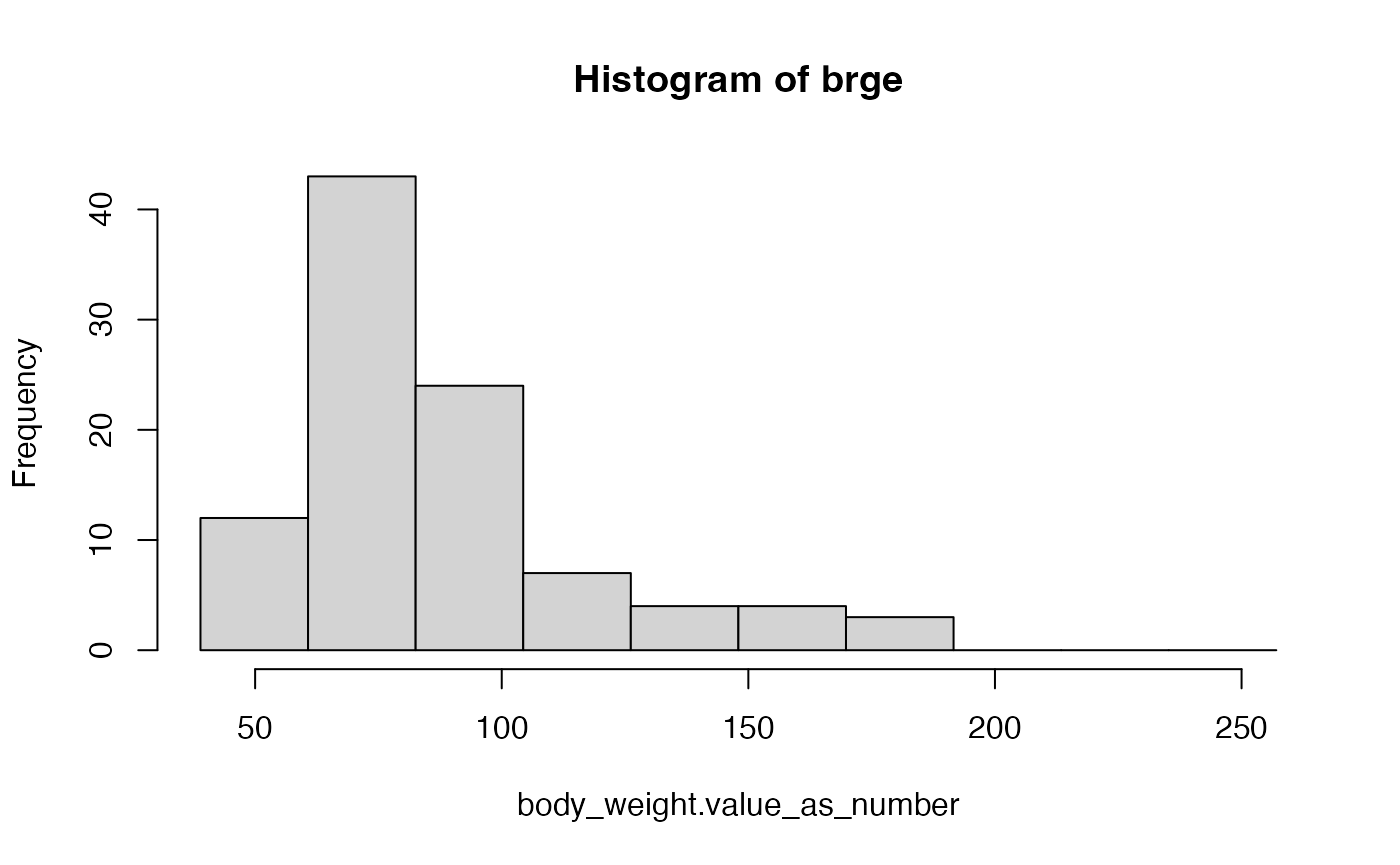
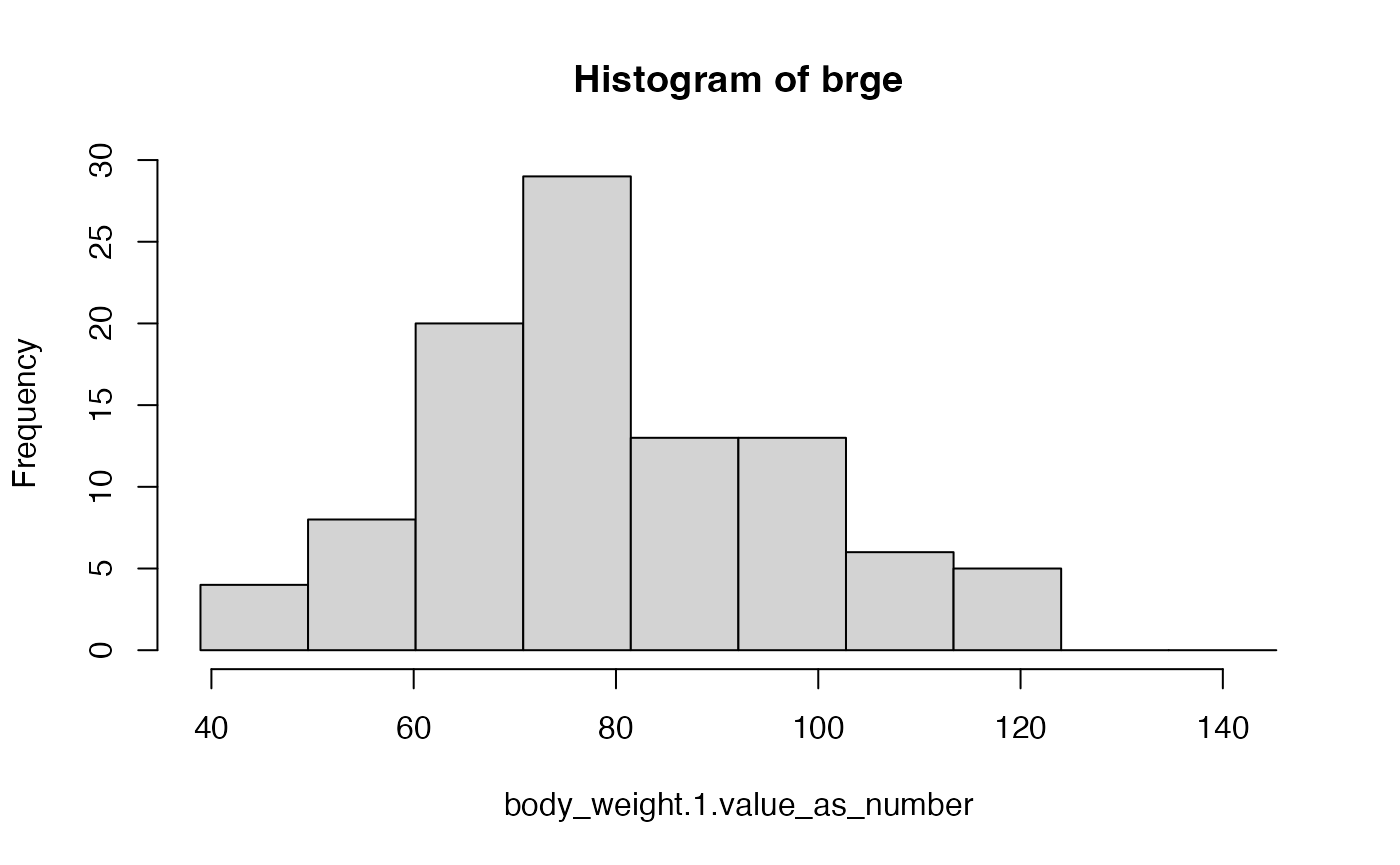
docs: longitudinal sequencing

diff --git a/docs/articles/demo.html b/docs/articles/demo.html
@@ -177,15 +177,15 @@ in the database:</p>
 <pre><code><span><span class="co">## $brge</span></span>
 <span><span class="co">##  [1] "attribute_definition" "care_site"            "cdm_source"          </span></span>
 <span><span class="co">##  [4] "cohort"               "cohort_attribute"     "cohort_definition"   </span></span>
-<span><span class="co">##  [7] "concept_relationship" "condition_era"        "condition_occurrence"</span></span>
-<span><span class="co">## [10] "cost"                 "death"                "device_exposure"     </span></span>
-<span><span class="co">## [13] "dose_era"             "drug_era"             "drug_exposure"       </span></span>
-<span><span class="co">## [16] "fact_relationship"    "location"             "measurement"         </span></span>
-<span><span class="co">## [19] "metadata"             "note"                 "note_nlp"            </span></span>
-<span><span class="co">## [22] "observation"          "observation_period"   "payer_plan_period"   </span></span>
-<span><span class="co">## [25] "person"               "procedure_occurrence" "provider"            </span></span>
-<span><span class="co">## [28] "specimen"             "visit_detail"         "visit_occurrence"    </span></span>
-<span><span class="co">## [31] "vocabulary"           "concept"</span></span></code></pre>
+<span><span class="co">##  [7] "concept"              "concept_relationship" "condition_era"       </span></span>
+<span><span class="co">## [10] "condition_occurrence" "cost"                 "death"               </span></span>
+<span><span class="co">## [13] "device_exposure"      "dose_era"             "drug_era"            </span></span>
+<span><span class="co">## [16] "drug_exposure"        "fact_relationship"    "location"            </span></span>
+<span><span class="co">## [19] "measurement"          "metadata"             "note"                </span></span>
+<span><span class="co">## [22] "note_nlp"             "observation"          "observation_period"  </span></span>
+<span><span class="co">## [25] "payer_plan_period"    "person"               "procedure_occurrence"</span></span>
+<span><span class="co">## [28] "provider"             "specimen"             "visit_detail"        </span></span>
+<span><span class="co">## [31] "visit_occurrence"     "vocabulary"</span></span></code></pre>
 </div>
 <div class="section level3">
 <h3 id="concepts">Concepts<a class="anchor" aria-label="anchor" href="#concepts"></a>
@@ -316,6 +316,12 @@ variables of interest.</p>
 data extraction functions of <code>dsOMOPHelper</code> in conjunction
 with DataSHIELD’s environment functions to manipulate and analyze the
 data.</p>
+<p><code>dsOMOP</code> sequences the longitudinal data in different
+columns if it detects several occurrences of a certain type of variable
+associated with the same <code>person_id</code>. We will not be doing
+any aggregation of the data for this example, but instead, we will be
+working with the first occurrence of each kind of variable. This is why
+we will be using the suffix <code>.1</code> in the variable names.</p>
 <p>Let’s say we want to add the observation
 <code>Marital status [NHANES]</code> to our study table. To do this, we
 first need to identify the corresponding concept, which in this case is
@@ -329,7 +335,7 @@ from the <code>value_as_concept_id</code> column.</p>
 <span>       concepts <span class="op">=</span> <span class="fu"><a href="https://rdrr.io/r/base/c.html" class="external-link">c</a></span><span class="op">(</span><span class="fl">40766231</span><span class="op">)</span>,</span>
 <span>       columns <span class="op">=</span> <span class="fu"><a href="https://rdrr.io/r/base/c.html" class="external-link">c</a></span><span class="op">(</span><span class="st">"value_as_concept_id"</span><span class="op">)</span><span class="op">)</span></span>
 <span></span>
-<span><span class="fu"><a href="https://rdrr.io/pkg/dsBaseClient/man/ds.summary.html" class="external-link">ds.summary</a></span><span class="op">(</span><span class="st">"mimiciv$marital_status_nhanes.value_as_concept_id"</span><span class="op">)</span></span></code></pre></div>
+<span><span class="fu"><a href="https://rdrr.io/pkg/dsBaseClient/man/ds.summary.html" class="external-link">ds.summary</a></span><span class="op">(</span><span class="st">"mimiciv$marital_status_nhanes.1.value_as_concept_id"</span><span class="op">)</span></span></code></pre></div>
 <pre><code><span><span class="co">## $brge</span></span>
 <span><span class="co">## $brge$class</span></span>
 <span><span class="co">## [1] "factor"</span></span>
@@ -360,46 +366,46 @@ with the following categories: <code>divorced</code>,
 <code>dsBaseClient</code> to obtain a frequency table of that same
 variable:</p>
 <div class="sourceCode" id="cb15"><pre class="downlit sourceCode r">
-<code class="sourceCode R"><span><span class="fu"><a href="https://rdrr.io/pkg/dsBaseClient/man/ds.table.html" class="external-link">ds.table</a></span><span class="op">(</span><span class="st">"mimiciv$marital_status_nhanes.value_as_concept_id"</span><span class="op">)</span></span></code></pre></div>
+<code class="sourceCode R"><span><span class="fu"><a href="https://rdrr.io/pkg/dsBaseClient/man/ds.table.html" class="external-link">ds.table</a></span><span class="op">(</span><span class="st">"mimiciv$marital_status_nhanes.1.value_as_concept_id"</span><span class="op">)</span></span></code></pre></div>
 <pre><code><span><span class="co">## </span></span>
 <span><span class="co">##  Data in all studies were valid </span></span>
 <span><span class="co">## </span></span>
 <span><span class="co">## Study 1 :  No errors reported from this study</span></span></code></pre>
 <pre><code><span><span class="co">## $output.list</span></span>
 <span><span class="co">## $output.list$TABLE_rvar.by.study_row.props</span></span>
-<span><span class="co">##                                                  study</span></span>
-<span><span class="co">## mimiciv$marital_status_nhanes.value_as_concept_id brge</span></span>
-<span><span class="co">##                                     divorced         1</span></span>
-<span><span class="co">##                                     married          1</span></span>
-<span><span class="co">##                                     never_married    1</span></span>
-<span><span class="co">##                                     widowed          1</span></span>
-<span><span class="co">##                                     NA               1</span></span>
+<span><span class="co">##                                                    study</span></span>
+<span><span class="co">## mimiciv$marital_status_nhanes.1.value_as_concept_id brge</span></span>
+<span><span class="co">##                                       divorced         1</span></span>
+<span><span class="co">##                                       married          1</span></span>
+<span><span class="co">##                                       never_married    1</span></span>
+<span><span class="co">##                                       widowed          1</span></span>
+<span><span class="co">##                                       NA               1</span></span>
 <span><span class="co">## </span></span>
 <span><span class="co">## $output.list$TABLE_rvar.by.study_col.props</span></span>
-<span><span class="co">##                                                  study</span></span>
-<span><span class="co">## mimiciv$marital_status_nhanes.value_as_concept_id brge</span></span>
-<span><span class="co">##                                     divorced      0.10</span></span>
-<span><span class="co">##                                     married       0.37</span></span>
-<span><span class="co">##                                     never_married 0.30</span></span>
-<span><span class="co">##                                     widowed       0.13</span></span>
-<span><span class="co">##                                     NA            0.10</span></span>
+<span><span class="co">##                                                    study</span></span>
+<span><span class="co">## mimiciv$marital_status_nhanes.1.value_as_concept_id brge</span></span>
+<span><span class="co">##                                       divorced      0.10</span></span>
+<span><span class="co">##                                       married       0.37</span></span>
+<span><span class="co">##                                       never_married 0.30</span></span>
+<span><span class="co">##                                       widowed       0.13</span></span>
+<span><span class="co">##                                       NA            0.10</span></span>
 <span><span class="co">## </span></span>
 <span><span class="co">## $output.list$TABLE_rvar.by.study_counts</span></span>
-<span><span class="co">##                                                  study</span></span>
-<span><span class="co">## mimiciv$marital_status_nhanes.value_as_concept_id brge</span></span>
-<span><span class="co">##                                     divorced        10</span></span>
-<span><span class="co">##                                     married         37</span></span>
-<span><span class="co">##                                     never_married   30</span></span>
-<span><span class="co">##                                     widowed         13</span></span>
-<span><span class="co">##                                     NA              10</span></span>
+<span><span class="co">##                                                    study</span></span>
+<span><span class="co">## mimiciv$marital_status_nhanes.1.value_as_concept_id brge</span></span>
+<span><span class="co">##                                       divorced        10</span></span>
+<span><span class="co">##                                       married         37</span></span>
+<span><span class="co">##                                       never_married   30</span></span>
+<span><span class="co">##                                       widowed         13</span></span>
+<span><span class="co">##                                       NA              10</span></span>
 <span><span class="co">## </span></span>
 <span><span class="co">## $output.list$TABLES.COMBINED_all.sources_proportions</span></span>
-<span><span class="co">## mimiciv$marital_status_nhanes.value_as_concept_id</span></span>
+<span><span class="co">## mimiciv$marital_status_nhanes.1.value_as_concept_id</span></span>
 <span><span class="co">##      divorced       married never_married       widowed            NA </span></span>
 <span><span class="co">##          0.10          0.37          0.30          0.13          0.10 </span></span>
 <span><span class="co">## </span></span>
 <span><span class="co">## $output.list$TABLES.COMBINED_all.sources_counts</span></span>
-<span><span class="co">## mimiciv$marital_status_nhanes.value_as_concept_id</span></span>
+<span><span class="co">## mimiciv$marital_status_nhanes.1.value_as_concept_id</span></span>
 <span><span class="co">##      divorced       married never_married       widowed            NA </span></span>
 <span><span class="co">##            10            37            30            13            10 </span></span>
 <span><span class="co">## </span></span>
@@ -417,7 +423,7 @@ table. In this scenario, our goal is to retrieve data from the
 <span>       concepts <span class="op">=</span> <span class="fu"><a href="https://rdrr.io/r/base/c.html" class="external-link">c</a></span><span class="op">(</span><span class="fl">3025315</span><span class="op">)</span>,</span>
 <span>       columns <span class="op">=</span> <span class="fu"><a href="https://rdrr.io/r/base/c.html" class="external-link">c</a></span><span class="op">(</span><span class="st">"value_as_number"</span><span class="op">)</span><span class="op">)</span></span>
 <span></span>
-<span><span class="fu"><a href="https://rdrr.io/pkg/dsBaseClient/man/ds.summary.html" class="external-link">ds.summary</a></span><span class="op">(</span><span class="st">"mimiciv$body_weight.value_as_number"</span><span class="op">)</span></span></code></pre></div>
+<span><span class="fu"><a href="https://rdrr.io/pkg/dsBaseClient/man/ds.summary.html" class="external-link">ds.summary</a></span><span class="op">(</span><span class="st">"mimiciv$body_weight.1.value_as_number"</span><span class="op">)</span></span></code></pre></div>
 <pre><code><span><span class="co">## $brge</span></span>
 <span><span class="co">## $brge$class</span></span>
 <span><span class="co">## [1] "numeric"</span></span>
@@ -427,29 +433,29 @@ table. In this scenario, our goal is to retrieve data from the
 <span><span class="co">## </span></span>
 <span><span class="co">## $brge$`quantiles &amp; mean`</span></span>
 <span><span class="co">##      5%     10%     25%     50%     75%     90%     95%    Mean </span></span>
-<span><span class="co">##  52.745  59.620  68.900  80.000  99.075 148.660 171.165  91.767</span></span></code></pre>
+<span><span class="co">##  52.745  59.620  68.000  77.850  93.275 104.300 117.150  80.254</span></span></code></pre>
 <p>As we can see, we have successfully obtained a numerical variable
 that contains the body weight of the patients.</p>
 <p>To visually inspect the distribution of that same variable, we can
 generate a histogram using the <code>ds.histogram</code> function from
 <code>dsBaseClient</code>:</p>
 <div class="sourceCode" id="cb20"><pre class="downlit sourceCode r">
-<code class="sourceCode R"><span><span class="fu"><a href="https://rdrr.io/pkg/dsBaseClient/man/ds.histogram.html" class="external-link">ds.histogram</a></span><span class="op">(</span><span class="st">"mimiciv$body_weight.value_as_number"</span><span class="op">)</span></span></code></pre></div>
+<code class="sourceCode R"><span><span class="fu"><a href="https://rdrr.io/pkg/dsBaseClient/man/ds.histogram.html" class="external-link">ds.histogram</a></span><span class="op">(</span><span class="st">"mimiciv$body_weight.1.value_as_number"</span><span class="op">)</span></span></code></pre></div>
 <p><img src="demo_files/figure-html/histogram_measurement-1.png" width="700"></p>
 <pre><code><span><span class="co">## $breaks</span></span>
-<span><span class="co">##  [1]  38.91912  60.73194  82.54476 104.35759 126.17041 147.98323 169.79605</span></span>
-<span><span class="co">##  [8] 191.60887 213.42169 235.23452 257.04734</span></span>
+<span><span class="co">##  [1]  38.91912  49.55597  60.19282  70.82967  81.46652  92.10337 102.74022</span></span>
+<span><span class="co">##  [8] 113.37707 124.01392 134.65078 145.28763</span></span>
 <span><span class="co">## </span></span>
 <span><span class="co">## $counts</span></span>
-<span><span class="co">##  [1] 12 43 24  7  4  4  3  0  0  0</span></span>
+<span><span class="co">##  [1]  4  8 20 29 13 13  6  5  0  0</span></span>
 <span><span class="co">## </span></span>
 <span><span class="co">## $density</span></span>
-<span><span class="co">##  [1] 0.005501352 0.019713176 0.011002703 0.003209122 0.001833784</span></span>
-<span><span class="co">##  [6] 0.001833784 0.001375338 0.000000000 0.000000000 0.000000000</span></span>
+<span><span class="co">##  [1] 0.003760512 0.007521023 0.018802558 0.027263710 0.012221663</span></span>
+<span><span class="co">##  [6] 0.012221663 0.005640767 0.004700640 0.000000000 0.000000000</span></span>
 <span><span class="co">## </span></span>
 <span><span class="co">## $mids</span></span>
-<span><span class="co">##  [1]  49.82553  71.63835  93.45118 115.26400 137.07682 158.88964 180.70246</span></span>
-<span><span class="co">##  [8] 202.51528 224.32811 246.14093</span></span>
+<span><span class="co">##  [1]  44.23755  54.87440  65.51125  76.14810  86.78495  97.42180 108.05865</span></span>
+<span><span class="co">##  [8] 118.69550 129.33235 139.96920</span></span>
 <span><span class="co">## </span></span>
 <span><span class="co">## $xname</span></span>
 <span><span class="co">## [1] "xvect"</span></span>
@@ -459,8 +465,8 @@ generate a histogram using the <code>ds.histogram</code> function from
 <span><span class="co">## </span></span>
 <span><span class="co">## attr(,"class")</span></span>
 <span><span class="co">## [1] "histogram"</span></span></code></pre>
-<p>Finally, we will perform a generalized linear regression analysis
-(GLM) to evaluate the relationship between blood glucose, hemoglobin
+<p>Finally, we will perform a generalized linear regression (GLM)
+analysis to evaluate the relationship between blood glucose, hemoglobin
 A1c, and vitamin B12. To do this, we first need to extract the variables
 of interest from the corresponding tables, which are present in the
 <code>Measurement</code> table.</p>
@@ -481,45 +487,45 @@ linear regression analysis:</p>
 <span>       concepts <span class="op">=</span> <span class="fu"><a href="https://rdrr.io/r/base/c.html" class="external-link">c</a></span><span class="op">(</span><span class="fl">3000483</span>, <span class="fl">3004410</span>, <span class="fl">3000593</span><span class="op">)</span>,</span>
 <span>       columns <span class="op">=</span> <span class="fu"><a href="https://rdrr.io/r/base/c.html" class="external-link">c</a></span><span class="op">(</span><span class="st">"value_as_number"</span><span class="op">)</span><span class="op">)</span></span>
 <span></span>
-<span><span class="fu"><a href="https://rdrr.io/pkg/dsBaseClient/man/ds.glm.html" class="external-link">ds.glm</a></span><span class="op">(</span>formula <span class="op">=</span> <span class="st">"glucose_mass_volume_in_blood.value_as_number ~ </span></span>
-<span><span class="st">                  hemoglobin_a1c_hemoglobin_total_in_blood.value_as_number + </span></span>
-<span><span class="st">                  cobalamin_vitamin_b12_mass_volume_in_serum_or_plasma.value_as_number"</span>,</span>
+<span><span class="fu"><a href="https://rdrr.io/pkg/dsBaseClient/man/ds.glm.html" class="external-link">ds.glm</a></span><span class="op">(</span>formula <span class="op">=</span> <span class="st">"glucose_mass_volume_in_blood.1.value_as_number ~ </span></span>
+<span><span class="st">                  hemoglobin_a1c_hemoglobin_total_in_blood.1.value_as_number + </span></span>
+<span><span class="st">                  cobalamin_vitamin_b12_mass_volume_in_serum_or_plasma.1.value_as_number"</span>,</span>
 <span>       data <span class="op">=</span> <span class="st">"mimiciv"</span>,</span>
 <span>       family <span class="op">=</span> <span class="st">"gaussian"</span>,</span>
 <span>       datasources <span class="op">=</span> <span class="va">conns</span><span class="op">)</span></span></code></pre></div>
 <pre><code><span><span class="co">## Iteration 1...</span></span></code></pre>
 <pre><code><span><span class="co">## CURRENT DEVIANCE:      152458</span></span></code></pre>
 <pre><code><span><span class="co">## Iteration 2...</span></span></code></pre>
-<pre><code><span><span class="co">## CURRENT DEVIANCE:      21039.76878283</span></span></code></pre>
+<pre><code><span><span class="co">## CURRENT DEVIANCE:      21068.1496506415</span></span></code></pre>
 <pre><code><span><span class="co">## Iteration 3...</span></span></code></pre>
-<pre><code><span><span class="co">## CURRENT DEVIANCE:      21039.76878283</span></span></code></pre>
+<pre><code><span><span class="co">## CURRENT DEVIANCE:      21068.1496506415</span></span></code></pre>
 <pre><code><span><span class="co">## SUMMARY OF MODEL STATE after iteration 3</span></span></code></pre>
-<pre><code><span><span class="co">## Current deviance 21039.76878283 on 7 degrees of freedom</span></span></code></pre>
-<pre><code><span><span class="co">## Convergence criterion TRUE (0)</span></span></code></pre>
+<pre><code><span><span class="co">## Current deviance 21068.1496506415 on 7 degrees of freedom</span></span></code></pre>
+<pre><code><span><span class="co">## Convergence criterion TRUE (1.7267589227475e-16)</span></span></code></pre>
 <pre><code><span><span class="co">## </span></span>
-<span><span class="co">## beta: 136.907791454376 -1.44877423286027 -0.0176287956458337</span></span></code></pre>
+<span><span class="co">## beta: 120.958893279016 0.82795236254575 -0.0161066743745843</span></span></code></pre>
 <pre><code><span><span class="co">## </span></span>
 <span><span class="co">## Information matrix overall:</span></span></code></pre>
-<pre><code><span><span class="co">##                                                                      (Intercept)</span></span>
-<span><span class="co">## (Intercept)                                                                 10.0</span></span>
-<span><span class="co">## hemoglobin_a1c_hemoglobin_total_in_blood.value_as_number                    64.9</span></span>
-<span><span class="co">## cobalamin_vitamin_b12_mass_volume_in_serum_or_plasma.value_as_number      7434.0</span></span>
-<span><span class="co">##                                                                      hemoglobin_a1c_hemoglobin_total_in_blood.value_as_number</span></span>
-<span><span class="co">## (Intercept)                                                                                                             64.90</span></span>
-<span><span class="co">## hemoglobin_a1c_hemoglobin_total_in_blood.value_as_number                                                               442.79</span></span>
-<span><span class="co">## cobalamin_vitamin_b12_mass_volume_in_serum_or_plasma.value_as_number                                                 47122.50</span></span>
-<span><span class="co">##                                                                      cobalamin_vitamin_b12_mass_volume_in_serum_or_plasma.value_as_number</span></span>
-<span><span class="co">## (Intercept)                                                                                                                        7434.0</span></span>
-<span><span class="co">## hemoglobin_a1c_hemoglobin_total_in_blood.value_as_number                                                                          47122.5</span></span>
-<span><span class="co">## cobalamin_vitamin_b12_mass_volume_in_serum_or_plasma.value_as_number                                                            7317894.0</span></span></code></pre>
+<pre><code><span><span class="co">##                                                                        (Intercept)</span></span>
+<span><span class="co">## (Intercept)                                                                   10.0</span></span>
+<span><span class="co">## hemoglobin_a1c_hemoglobin_total_in_blood.1.value_as_number                    65.4</span></span>
+<span><span class="co">## cobalamin_vitamin_b12_mass_volume_in_serum_or_plasma.1.value_as_number      7434.0</span></span>
+<span><span class="co">##                                                                        hemoglobin_a1c_hemoglobin_total_in_blood.1.value_as_number</span></span>
+<span><span class="co">## (Intercept)                                                                                                                 65.40</span></span>
+<span><span class="co">## hemoglobin_a1c_hemoglobin_total_in_blood.1.value_as_number                                                                 451.24</span></span>
+<span><span class="co">## cobalamin_vitamin_b12_mass_volume_in_serum_or_plasma.1.value_as_number                                                   47292.00</span></span>
+<span><span class="co">##                                                                        cobalamin_vitamin_b12_mass_volume_in_serum_or_plasma.1.value_as_number</span></span>
+<span><span class="co">## (Intercept)                                                                                                                              7434</span></span>
+<span><span class="co">## hemoglobin_a1c_hemoglobin_total_in_blood.1.value_as_number                                                                              47292</span></span>
+<span><span class="co">## cobalamin_vitamin_b12_mass_volume_in_serum_or_plasma.1.value_as_number                                                                7317894</span></span></code></pre>
 <pre><code><span><span class="co">## </span></span>
 <span><span class="co">## Score vector overall:</span></span></code></pre>
-<pre><code><span><span class="co">##                                                                               [,1]</span></span>
-<span><span class="co">## (Intercept)                                                          -6.679102e-13</span></span>
-<span><span class="co">## hemoglobin_a1c_hemoglobin_total_in_blood.value_as_number             -4.376943e-12</span></span>
-<span><span class="co">## cobalamin_vitamin_b12_mass_volume_in_serum_or_plasma.value_as_number -4.692993e-10</span></span></code></pre>
+<pre><code><span><span class="co">##                                                                                 [,1]</span></span>
+<span><span class="co">## (Intercept)                                                            -2.799538e-12</span></span>
+<span><span class="co">## hemoglobin_a1c_hemoglobin_total_in_blood.1.value_as_number             -1.841727e-11</span></span>
+<span><span class="co">## cobalamin_vitamin_b12_mass_volume_in_serum_or_plasma.1.value_as_number -2.106390e-09</span></span></code></pre>
 <pre><code><span><span class="co">## </span></span>
-<span><span class="co">## Current deviance: 21039.76878283</span></span></code></pre>
+<span><span class="co">## Current deviance: 21068.1496506415</span></span></code></pre>
 <pre><code><span><span class="co">## $Nvalid</span></span>
 <span><span class="co">## [1] 10</span></span>
 <span><span class="co">## </span></span>
@@ -550,36 +556,36 @@ linear regression analysis:</p>
 <span><span class="co">## </span></span>
 <span><span class="co">## </span></span>
 <span><span class="co">## $formula</span></span>
-<span><span class="co">## [1] "glucose_mass_volume_in_blood.value_as_number ~ hemoglobin_a1c_hemoglobin_total_in_blood.value_as_number +      cobalamin_vitamin_b12_mass_volume_in_serum_or_plasma.value_as_number"</span></span>
+<span><span class="co">## [1] "glucose_mass_volume_in_blood.1.value_as_number ~ hemoglobin_a1c_hemoglobin_total_in_blood.1.value_as_number +      cobalamin_vitamin_b12_mass_volume_in_serum_or_plasma.1.value_as_number"</span></span>
 <span><span class="co">## </span></span>
 <span><span class="co">## $coefficients</span></span>
-<span><span class="co">##                                                                         Estimate</span></span>
-<span><span class="co">## (Intercept)                                                          136.9077915</span></span>
-<span><span class="co">## hemoglobin_a1c_hemoglobin_total_in_blood.value_as_number              -1.4487742</span></span>
-<span><span class="co">## cobalamin_vitamin_b12_mass_volume_in_serum_or_plasma.value_as_number  -0.0176288</span></span>
-<span><span class="co">##                                                                       Std. Error</span></span>
-<span><span class="co">## (Intercept)                                                          90.51377908</span></span>
-<span><span class="co">## hemoglobin_a1c_hemoglobin_total_in_blood.value_as_number             11.99689937</span></span>
-<span><span class="co">## cobalamin_vitamin_b12_mass_volume_in_serum_or_plasma.value_as_number  0.04164683</span></span>
-<span><span class="co">##                                                                         z-value</span></span>
-<span><span class="co">## (Intercept)                                                           1.5125630</span></span>
-<span><span class="co">## hemoglobin_a1c_hemoglobin_total_in_blood.value_as_number             -0.1207624</span></span>
-<span><span class="co">## cobalamin_vitamin_b12_mass_volume_in_serum_or_plasma.value_as_number -0.4232927</span></span>
-<span><span class="co">##                                                                        p-value</span></span>
-<span><span class="co">## (Intercept)                                                          0.1303907</span></span>
-<span><span class="co">## hemoglobin_a1c_hemoglobin_total_in_blood.value_as_number             0.9038792</span></span>
-<span><span class="co">## cobalamin_vitamin_b12_mass_volume_in_serum_or_plasma.value_as_number 0.6720818</span></span>
-<span><span class="co">##                                                                         low0.95CI</span></span>
-<span><span class="co">## (Intercept)                                                          -40.49595565</span></span>
-<span><span class="co">## hemoglobin_a1c_hemoglobin_total_in_blood.value_as_number             -24.96226492</span></span>
-<span><span class="co">## cobalamin_vitamin_b12_mass_volume_in_serum_or_plasma.value_as_number  -0.09925508</span></span>
-<span><span class="co">##                                                                        high0.95CI</span></span>
-<span><span class="co">## (Intercept)                                                          314.31153856</span></span>
-<span><span class="co">## hemoglobin_a1c_hemoglobin_total_in_blood.value_as_number              22.06471646</span></span>
-<span><span class="co">## cobalamin_vitamin_b12_mass_volume_in_serum_or_plasma.value_as_number   0.06399748</span></span>
+<span><span class="co">##                                                                            Estimate</span></span>
+<span><span class="co">## (Intercept)                                                            120.95889328</span></span>
+<span><span class="co">## hemoglobin_a1c_hemoglobin_total_in_blood.1.value_as_number               0.82795236</span></span>
+<span><span class="co">## cobalamin_vitamin_b12_mass_volume_in_serum_or_plasma.1.value_as_number  -0.01610667</span></span>
+<span><span class="co">##                                                                         Std. Error</span></span>
+<span><span class="co">## (Intercept)                                                            89.11697092</span></span>
+<span><span class="co">## hemoglobin_a1c_hemoglobin_total_in_blood.1.value_as_number             11.55494959</span></span>
+<span><span class="co">## cobalamin_vitamin_b12_mass_volume_in_serum_or_plasma.1.value_as_number  0.04187167</span></span>
+<span><span class="co">##                                                                            z-value</span></span>
+<span><span class="co">## (Intercept)                                                             1.35730481</span></span>
+<span><span class="co">## hemoglobin_a1c_hemoglobin_total_in_blood.1.value_as_number              0.07165348</span></span>
+<span><span class="co">## cobalamin_vitamin_b12_mass_volume_in_serum_or_plasma.1.value_as_number -0.38466759</span></span>
+<span><span class="co">##                                                                          p-value</span></span>
+<span><span class="co">## (Intercept)                                                            0.1746844</span></span>
+<span><span class="co">## hemoglobin_a1c_hemoglobin_total_in_blood.1.value_as_number             0.9428777</span></span>
+<span><span class="co">## cobalamin_vitamin_b12_mass_volume_in_serum_or_plasma.1.value_as_number 0.7004837</span></span>
+<span><span class="co">##                                                                           low0.95CI</span></span>
+<span><span class="co">## (Intercept)                                                            -53.70716014</span></span>
+<span><span class="co">## hemoglobin_a1c_hemoglobin_total_in_blood.1.value_as_number             -21.81933267</span></span>
+<span><span class="co">## cobalamin_vitamin_b12_mass_volume_in_serum_or_plasma.1.value_as_number  -0.09817364</span></span>
+<span><span class="co">##                                                                          high0.95CI</span></span>
+<span><span class="co">## (Intercept)                                                            295.62494670</span></span>
+<span><span class="co">## hemoglobin_a1c_hemoglobin_total_in_blood.1.value_as_number              23.47523740</span></span>
+<span><span class="co">## cobalamin_vitamin_b12_mass_volume_in_serum_or_plasma.1.value_as_number   0.06596029</span></span>
 <span><span class="co">## </span></span>
 <span><span class="co">## $dev</span></span>
-<span><span class="co">## [1] 21039.77</span></span>
+<span><span class="co">## [1] 21068.15</span></span>
 <span><span class="co">## </span></span>
 <span><span class="co">## $df</span></span>
 <span><span class="co">## [1] 7</span></span>
